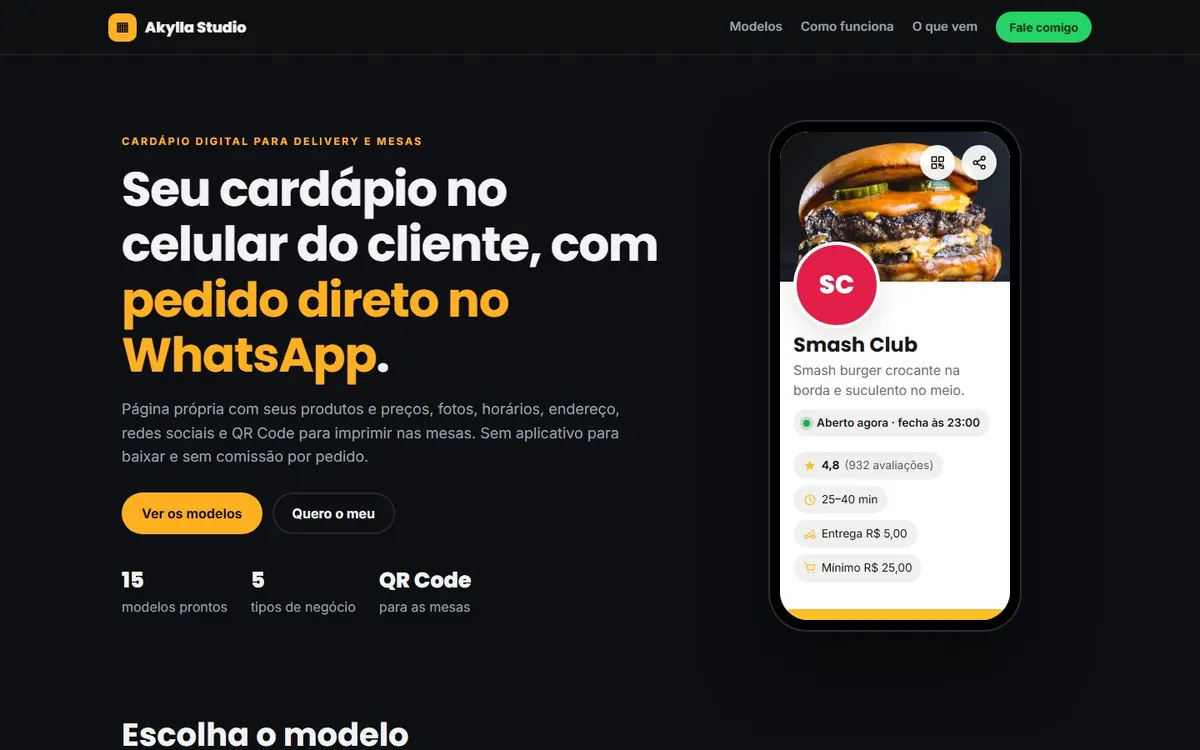
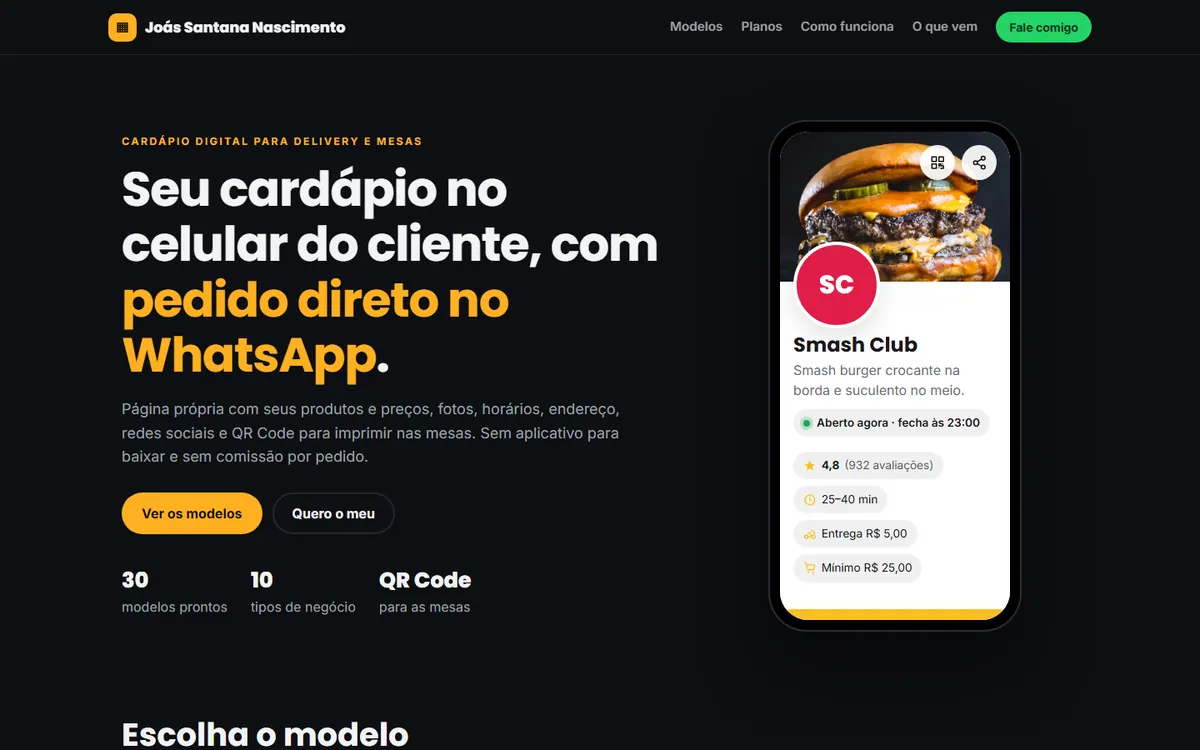
Atualiza o Cardápio Digital: 30 modelos, 10 nichos e novos preços
- Planos Essencial R$ 297 e Completo R$ 497, manutenção R$ 49/mês
- Tabela de preços, janela de detalhes e faixa de números atualizadas
- Cardápio digital como opção de entrada na página de links
- Print novo da vitrine

diff --git a/index.html b/index.html
@@ -27,8 +27,8 @@
   <link rel="preconnect" href="https://fonts.googleapis.com">
   <link rel="preconnect" href="https://fonts.gstatic.com" crossorigin>
   <link href="https://fonts.googleapis.com/css2?family=Inter:wght@400;500;600&family=Space+Grotesk:wght@500;600;700&display=swap" rel="stylesheet">
-  <link rel="stylesheet" href="css/style.css?v=2026102604">
-  <link rel="stylesheet" href="css/solucao.css?v=2026102604">
+  <link rel="stylesheet" href="css/style.css?v=2026102701">
+  <link rel="stylesheet" href="css/solucao.css?v=2026102701">
 
   <!-- Dados para o Google entender que é uma empresa de serviços -->
   <script type="application/ld+json">
@@ -208,7 +208,7 @@
       <div class="container prova__grade">
         <a href="#projetos"><strong>3</strong><span>produtos próprios no ar</span></a>
         <a href="#solucoes"><strong>8</strong><span>soluções prontas para adaptar</span></a>
-        <a href="https://tanattos18.github.io/Cardapio_Digital/" target="_blank" rel="noopener"><strong>15</strong><span>modelos de cardápio digital</span></a>
+        <a href="https://tanattos18.github.io/Cardapio_Digital/" target="_blank" rel="noopener"><strong>30</strong><span>modelos de cardápio digital</span></a>
         <a href="#sobre"><strong>1:1</strong><span>direto com o desenvolvedor</span></a>
       </div>
     </section>
@@ -365,10 +365,10 @@
               <dt>Desafio</dt>
               <dd>Restaurantes e deliveries pagando comissão aos aplicativos ou mandando cardápio em PDF que ninguém consegue ler no celular.</dd>
               <dt>Solução</dt>
-              <dd>Cardápio próprio no celular com pedido completo direto no WhatsApp, QR Code nas mesas e 15 modelos prontos em 3 estilos para escolher.</dd>
+              <dd>Cardápio próprio no celular com pedido completo direto no WhatsApp, QR Code nas mesas e 30 modelos prontos para 10 tipos de negócio, a partir de R$ 297.</dd>
             </dl>
-            <ul class="tags"><li>Pedido pelo WhatsApp</li><li>QR Code</li><li>Delivery e mesa</li><li>15 modelos</li></ul>
-            <p class="projeto__links"><a href="https://tanattos18.github.io/Cardapio_Digital/" target="_blank" rel="noopener" class="link-seta">Ver os 15 modelos</a><a href="#solucao-cardapio-digital" data-abrir="solucao-cardapio-digital" class="link-seta">Detalhes e preço</a></p>
+            <ul class="tags"><li>Pedido pelo WhatsApp</li><li>QR Code</li><li>Delivery e mesa</li><li>30 modelos</li><li>10 nichos</li></ul>
+            <p class="projeto__links"><a href="https://tanattos18.github.io/Cardapio_Digital/" target="_blank" rel="noopener" class="link-seta">Ver os 30 modelos</a><a href="#solucao-cardapio-digital" data-abrir="solucao-cardapio-digital" class="link-seta">Detalhes e preço</a></p>
           </div>
         </article>
 
@@ -398,9 +398,9 @@
               <span class="status-tag status-tag--pronto">Pronto para implantar</span>
             </div>
             <h4>Cardápio Digital</h4>
-            <p>Cardápio no celular do cliente com pedido direto no WhatsApp. 15 modelos prontos.</p>
+            <p>Cardápio no celular do cliente com pedido direto no WhatsApp. 30 modelos prontos, a partir de R$ 297.</p>
             <ul><li>Delivery, retirada e mesa</li><li>QR Code nas mesas</li><li>Sem comissão por pedido</li></ul>
-            <div class="solucao__acoes"><a href="#solucao-cardapio-digital" class="btn" data-abrir="solucao-cardapio-digital">Ver detalhes</a><a href="https://tanattos18.github.io/Cardapio_Digital/" class="link-seta" target="_blank" rel="noopener">Ver os 15 modelos</a></div>
+            <div class="solucao__acoes"><a href="#solucao-cardapio-digital" class="btn" data-abrir="solucao-cardapio-digital">Ver detalhes</a><a href="https://tanattos18.github.io/Cardapio_Digital/" class="link-seta" target="_blank" rel="noopener">Ver os 30 modelos</a></div>
           </article>
         </div>
         <h3 class="solucoes__grupo">Sistemas de gestão</h3>
@@ -634,9 +634,9 @@
               </tr>
               <tr>
                 <td><strong><a href="#solucao-cardapio-digital" data-abrir="solucao-cardapio-digital">Cardápio / catálogo digital</a></strong></td>
-                <td>Lista de produtos com fotos e preços, pedido pelo WhatsApp, link para bio do Instagram</td>
+                <td>30 modelos para escolher, produtos com foto, pedido pelo WhatsApp e QR Code. Essencial até 40 produtos; Completo até 120, com domínio próprio e plaquinhas por mesa</td>
                 <td>5 a 10 dias</td>
-                <td class="tabela__valor">R$ 1.200 a R$ 2.500</td>
+                <td class="tabela__valor">R$ 297 ou R$ 497</td>
               </tr>
               <tr>
                 <td><strong>Site institucional</strong></td>
@@ -854,10 +854,10 @@
             <span class="status-tag status-tag--pronto">Pronto para implantar</span>
           </div>
           <h2 id="titulo-cardapio-digital">Seu cardápio no celular do cliente, com <em>pedido direto no WhatsApp</em></h2>
-          <p class="detalhe__texto">Uma página própria com produtos, fotos, preços, horários e endereço. O cliente monta o pedido, escolhe entrega, retirada ou mesa, e tudo chega organizado no seu WhatsApp. Sem aplicativo para baixar e sem comissão por pedido. São 15 modelos prontos em 3 estilos para escolher.</p>
+          <p class="detalhe__texto">Uma página própria com produtos, fotos, preços, horários e endereço. O cliente monta o pedido, escolhe entrega, retirada ou mesa, e tudo chega organizado no seu WhatsApp. Sem aplicativo para baixar e sem comissão por pedido. São 30 modelos prontos para 10 tipos de negócio, todos com fotos nos produtos.</p>
           <div class="detalhe__acoes">
             <a href="#" class="btn" data-servico="Solução Cardápio Digital (pedidos pelo WhatsApp)"><svg viewBox="0 0 24 24" aria-hidden="true"><path d="M12 3a9 9 0 0 0-7.8 13.5L3 21l4.6-1.2A9 9 0 1 0 12 3z"/></svg> Quero essa solução</a>
-            <a href="https://tanattos18.github.io/Cardapio_Digital/" class="btn btn--fantasma" target="_blank" rel="noopener">Ver os 15 modelos ↗</a>
+            <a href="https://tanattos18.github.io/Cardapio_Digital/" class="btn btn--fantasma" target="_blank" rel="noopener">Ver os 30 modelos ↗</a>
           </div>
         </div>
         <div>
@@ -873,23 +873,23 @@
       <div class="sol-dores"><article class="dor"><span class="dor__x">✕</span><h4>Comissão em cada pedido</h4><p>Aplicativos de delivery ficam com uma parte de cada venda, todo mês.</p></article><article class="dor"><span class="dor__x">✕</span><h4>Cardápio em PDF ou foto</h4><p>Difícil de ler no celular, desatualizado e sem botão para pedir.</p></article><article class="dor"><span class="dor__x">✕</span><h4>Pedido incompleto no WhatsApp</h4><p>Falta endereço, troco ou adicional, e a conversa vai e volta.</p></article></div>
 
       <h3 class="detalhe__titulo">O que vem incluso</h3>
-      <div class="recursos"><article class="recurso"><div class="recurso__icone"><svg viewBox="0 0 24 24" aria-hidden="true"><path d="M12 3a9 9 0 0 0-7.8 13.5L3 21l4.6-1.2A9 9 0 1 0 12 3z"/></svg></div><h4>Pedido pronto no WhatsApp</h4><p>Itens, adicionais, total, entrega, retirada ou mesa, endereço, pagamento e troco numa mensagem só.</p></article><article class="recurso"><div class="recurso__icone"><svg viewBox="0 0 24 24" aria-hidden="true"><rect x="3" y="3" width="7" height="7" rx="1"/><rect x="14" y="3" width="7" height="7" rx="1"/><rect x="3" y="14" width="7" height="7" rx="1"/><path d="M14 14h3v3M21 14v.01M14 21h7v-4"/></svg></div><h4>QR Code nas mesas</h4><p>Plaquinhas para imprimir: o pedido chega com o número da mesa.</p></article><article class="recurso"><div class="recurso__icone"><svg viewBox="0 0 24 24" aria-hidden="true"><path d="M12 2l2.6 6.3L21 9l-5 4.4L17.5 20 12 16.6 6.5 20 8 13.4 3 9l6.4-.7z"/></svg></div><h4>Tamanhos, adicionais e selos</h4><p>Preço promocional, tamanhos (pizza média, grande...), adicionais e selos como Mais pedido e Vegetariano.</p></article><article class="recurso"><div class="recurso__icone"><svg viewBox="0 0 24 24" aria-hidden="true"><circle cx="12" cy="12" r="9"/><path d="M12 7v5l3 2"/></svg></div><h4>Aberto ou fechado na hora</h4><p>Mostra se está aberto pelos horários da semana, inclusive quem fecha de madrugada.</p></article><article class="recurso"><div class="recurso__icone"><svg viewBox="0 0 24 24" aria-hidden="true"><path d="M10 14a4 4 0 0 0 5.7 0l3-3a4 4 0 0 0-5.7-5.7l-1 1M14 10a4 4 0 0 0-5.7 0l-3 3a4 4 0 0 0 5.7 5.7l1-1"/></svg></div><h4>Busca e categorias</h4><p>Busca e menu de categorias fixo no topo para o cliente achar rápido.</p></article><article class="recurso"><div class="recurso__icone"><svg viewBox="0 0 24 24" aria-hidden="true"><path d="M13 2L4 14h7l-1 8 9-12h-7z"/></svg></div><h4>Pronto para divulgar</h4><p>Endereço com mapa, redes sociais, botão de compartilhar e prévia bonita nos links.</p></article></div>
+      <div class="recursos"><article class="recurso"><div class="recurso__icone"><svg viewBox="0 0 24 24" aria-hidden="true"><path d="M12 3a9 9 0 0 0-7.8 13.5L3 21l4.6-1.2A9 9 0 1 0 12 3z"/></svg></div><h4>Pedido pronto no WhatsApp</h4><p>Itens, adicionais, total, entrega, retirada ou mesa, endereço, pagamento e troco numa mensagem só.</p></article><article class="recurso"><div class="recurso__icone"><svg viewBox="0 0 24 24" aria-hidden="true"><rect x="3" y="3" width="7" height="7" rx="1"/><rect x="14" y="3" width="7" height="7" rx="1"/><rect x="3" y="14" width="7" height="7" rx="1"/><path d="M14 14h3v3M21 14v.01M14 21h7v-4"/></svg></div><h4>QR Code nas mesas</h4><p>Plaquinhas para imprimir: o pedido chega com o número da mesa.</p></article><article class="recurso"><div class="recurso__icone"><svg viewBox="0 0 24 24" aria-hidden="true"><rect x="3" y="4" width="18" height="16" rx="2"/><circle cx="9" cy="10" r="2"/><path d="M21 16l-5-5-9 9"/></svg></div><h4>Foto em cada produto</h4><p>Todos os produtos com foto, preço promocional, tamanhos, adicionais e selos como Mais pedido e Vegetariano.</p></article><article class="recurso"><div class="recurso__icone"><svg viewBox="0 0 24 24" aria-hidden="true"><circle cx="12" cy="12" r="9"/><path d="M12 7v5l3 2"/></svg></div><h4>Aberto ou fechado na hora</h4><p>Mostra se está aberto pelos horários da semana, inclusive quem fecha de madrugada.</p></article><article class="recurso"><div class="recurso__icone"><svg viewBox="0 0 24 24" aria-hidden="true"><path d="M10 14a4 4 0 0 0 5.7 0l3-3a4 4 0 0 0-5.7-5.7l-1 1M14 10a4 4 0 0 0-5.7 0l-3 3a4 4 0 0 0 5.7 5.7l1-1"/></svg></div><h4>Busca e categorias</h4><p>Busca e menu de categorias fixo no topo para o cliente achar rápido.</p></article><article class="recurso"><div class="recurso__icone"><svg viewBox="0 0 24 24" aria-hidden="true"><path d="M13 2L4 14h7l-1 8 9-12h-7z"/></svg></div><h4>Pronto para divulgar</h4><p>Endereço com mapa, redes sociais, botão de compartilhar e prévia bonita nos links.</p></article></div>
 
       <h3 class="detalhe__titulo">Para quem é</h3>
-      <div class="para-quem"><span>Hamburguerias</span><span>Pizzarias</span><span>Restaurantes</span><span>Espetinhos</span><span>Pamonharias</span><span>Lanchonetes</span></div>
+      <div class="para-quem"><span>Hamburguerias</span><span>Pizzarias</span><span>Restaurantes</span><span>Espetinhos</span><span>Pamonharias</span><span>Confeitarias</span><span>Açaí e sorvete</span><span>Salgados para festa</span><span>Marmitas fit</span><span>Pastelarias</span></div>
 
       <div class="investimento">
         <div>
           <p class="rotulo">Implantação e investimento</p>
           <h3>Pronto em pouco tempo, com a sua marca</h3>
-          <p>A partir de R$ 1.200, com o seu cardápio cadastrado, as suas cores e as plaquinhas de QR Code. O valor final depende da quantidade de produtos e de fotos.</p>
+          <p>Pagamento único a partir de R$ 297. O preço não depende do modelo: escolha qualquer um dos 30 e o plano conforme o tamanho do seu cardápio.</p>
           <a href="#" class="btn" data-servico="Solução Cardápio Digital (pedidos pelo WhatsApp)"><svg viewBox="0 0 24 24" aria-hidden="true"><path d="M12 3a9 9 0 0 0-7.8 13.5L3 21l4.6-1.2A9 9 0 1 0 12 3z"/></svg> Quero essa solução</a>
         </div>
-        <ul><li>Modelo escolhido com as suas cores</li><li>Cardápio com os seus produtos e preços</li><li>Plaquinhas com QR Code das mesas</li><li>Publicação e link pronto para divulgar</li><li>Proposta por escrito com escopo, prazo e valor</li><li>Pagamento em 2 etapas: 50% para iniciar e 50% na entrega aprovada</li></ul>
+        <ul><li>Essencial (R$ 297): qualquer modelo com as suas cores e logo, até 40 produtos, QR Code do cardápio e 1 rodada de ajustes</li><li>Completo (R$ 497): até 120 produtos, domínio próprio no primeiro ano, plaquinhas de QR Code por mesa e ajuste das fotos</li><li>Manutenção opcional: R$ 49/mês, com até 10 alterações por mês</li><li>Proposta por escrito com escopo, prazo e valor</li><li>Pagamento em 2 etapas: 50% para iniciar e 50% na entrega aprovada</li></ul>
       </div>
 
       <h3 class="detalhe__titulo">Perguntas frequentes</h3>
-      <div class="detalhe__faq"><details><summary>Preciso pagar comissão por pedido?</summary><p>Não. O pedido vai direto para o seu WhatsApp, sem intermediário.</p></details><details><summary>Funciona para mesa e para delivery?</summary><p>Sim. O cliente escolhe entrega, retirada ou consumo na mesa, e o QR Code da mesa já informa o número.</p></details><details><summary>Posso mudar preços depois?</summary><p>Sim. Preços, itens e horários podem ser atualizados sempre que precisar.</p></details></div>
+      <div class="detalhe__faq"><details><summary>Preciso pagar comissão por pedido?</summary><p>Não. O pedido vai direto para o seu WhatsApp, sem intermediário.</p></details><details><summary>Funciona para mesa e para delivery?</summary><p>Sim. O cliente escolhe entrega, retirada ou consumo na mesa, e o QR Code da mesa já informa o número.</p></details><details><summary>Posso mudar preços depois?</summary><p>Sim. Com a manutenção de R$ 49/mês você pede até 10 alterações por mês em preços, produtos e promoções.</p></details></div>
     </dialog>
     <dialog class="detalhe" id="solucao-petflow" aria-labelledby="titulo-petflow">
       <button type="button" class="detalhe__fechar" data-fechar aria-label="Fechar">✕</button>
@@ -1322,7 +1322,7 @@
     <svg viewBox="0 0 24 24"><path d="M12 3a9 9 0 0 0-7.8 13.5L3 21l4.6-1.2A9 9 0 1 0 12 3zm4.6 12.6c-.2.6-1.1 1.1-1.6 1.2-.4 0-.9.1-2.9-.7-2.4-1-4-3.4-4.1-3.6-.1-.2-1-1.3-1-2.5s.6-1.8.9-2c.2-.3.5-.3.6-.3h.5c.2 0 .4 0 .6.4l.8 2c.1.2.1.4 0 .5l-.4.6-.3.3c-.1.1-.3.3-.1.6.2.3.7 1.2 1.6 2 1.1.9 2 1.2 2.3 1.4.3.1.5.1.6-.1l.9-1c.2-.3.4-.2.6-.1l1.9.9c.3.1.4.2.5.3.1.2.1.6-.1 1.1z"/></svg>
   </a>
 
-  <script src="js/config.js?v=2026102604"></script>
-  <script src="js/main.js?v=2026102604"></script>
+  <script src="js/config.js?v=2026102701"></script>
+  <script src="js/main.js?v=2026102701"></script>
 </body>
 </html>

diff --git a/links.html b/links.html
@@ -26,7 +26,7 @@
   <link rel="preconnect" href="https://fonts.googleapis.com">
   <link rel="preconnect" href="https://fonts.gstatic.com" crossorigin>
   <link href="https://fonts.googleapis.com/css2?family=Inter:wght@400;500;600&family=Space+Grotesk:wght@500;600;700&display=swap" rel="stylesheet">
-  <link rel="stylesheet" href="css/style.css?v=2026102604">
+  <link rel="stylesheet" href="css/style.css?v=2026102701">
   <style>
     body { min-height: 100vh; background: #07080c; }
 
@@ -348,9 +348,13 @@
         <svg viewBox="0 0 24 24"><path d="M4 5h16v14H4zM4 10h16M9 10v9"/></svg>
         <b>Quero organizar minha gestão</b><small>Sistema sob medida · <em>sob consulta</em></small>
       </a>
-      <a href="#" class="serv serv--largo entra" style="animation-delay:.54s" data-servico="Automação ou bot">
+      <a href="#" class="serv entra" style="animation-delay:.54s" data-servico="Automação ou bot">
         <svg viewBox="0 0 24 24"><rect x="4" y="8" width="16" height="11" rx="3"/><path d="M12 4v4M9 13v.01M15 13v.01M9 16h6"/></svg>
         <b>Quero automatizar meu atendimento</b><small>Bots de WhatsApp e Telegram · <em>sob consulta</em></small>
+      </a>
+      <a href="https://tanattos18.github.io/Cardapio_Digital/" class="serv entra" style="animation-delay:.56s" target="_blank" rel="noopener">
+        <svg viewBox="0 0 24 24"><rect x="5" y="3" width="14" height="18" rx="2"/><path d="M9 7h6M9 11h6M9 15h4"/></svg>
+        <b>Quero um cardápio digital</b><small>30 modelos prontos · a partir de <em>R$ 297</em></small>
       </a>
     </div>
     <p class="nota-servicos"><a href="./#precos">Ver planos, prazos e o que está incluso →</a></p>
@@ -375,7 +379,7 @@
       <a href="https://tanattos18.github.io/Cardapio_Digital/" class="proj entra" style="animation-delay:.34s" target="_blank" rel="noopener">
         <picture><source type="image/webp" srcset="assets/img/cardapio-digital-640.webp 640w, assets/img/cardapio-digital.webp 1200w" sizes="(max-width: 960px) 100vw, 580px"><img src="assets/img/cardapio-digital.jpg" alt="Vitrine de modelos do Cardápio Digital" width="1440" height="900" loading="lazy"></picture>
         <span class="proj__info">
-          <span><b>Cardápio Digital</b><small>Produto próprio · 15 modelos</small></span>
+          <span><b>Cardápio Digital</b><small>Produto próprio · 30 modelos</small></span>
           <span class="proj__abrir">Ver modelos ↗</span>
         </span>
       </a>
@@ -465,7 +469,7 @@
 
   <div class="toast" id="toast" role="status" aria-live="polite">Link copiado!</div>
 
-  <script src="js/config.js?v=2026102604"></script>
+  <script src="js/config.js?v=2026102701"></script>
   <script>
     document.getElementById("ano").textContent = new Date().getFullYear();
 

diff --git a/404.html b/404.html
@@ -11,7 +11,7 @@
   <link rel="preconnect" href="https://fonts.googleapis.com">
   <link rel="preconnect" href="https://fonts.gstatic.com" crossorigin>
   <link href="https://fonts.googleapis.com/css2?family=Inter:wght@400;500;600&family=Space+Grotesk:wght@500;600;700&display=swap" rel="stylesheet">
-  <link rel="stylesheet" href="/css/style.css?v=2026102604">
+  <link rel="stylesheet" href="/css/style.css?v=2026102701">
   <style>
     .erro { min-height: 100vh; display: grid; place-items: center; text-align: center; padding: 40px 20px; }
     .erro img { width: 88px; margin: 0 auto 24px; }
@@ -33,6 +33,6 @@
       </div>
     </div>
   </main>
-  <script src="/js/config.js?v=2026102604"></script>
+  <script src="/js/config.js?v=2026102701"></script>
 </body>
 </html>

diff --git a/_gerador/solucoes.py b/_gerador/solucoes.py
@@ -60,10 +60,10 @@ SOLUCOES = [
         "status": ("Pronto para implantar", "pronto"),
         "servico": "Solução Cardápio Digital (pedidos pelo WhatsApp)",
         "imagem": "assets/img/cardapio-digital.jpg", "imagem_url": "tanattos18.github.io/Cardapio_Digital",
-        "demo_url": "https://tanattos18.github.io/Cardapio_Digital/", "demo_rotulo": "Ver os 15 modelos",
+        "demo_url": "https://tanattos18.github.io/Cardapio_Digital/", "demo_rotulo": "Ver os 30 modelos",
         "titulo": "Seu cardápio no celular do cliente, com <em>pedido direto no WhatsApp</em>",
-        "descricao": "Uma página própria com produtos, fotos, preços, horários e endereço. O cliente monta o pedido, escolhe entrega, retirada ou mesa, e tudo chega organizado no seu WhatsApp. Sem aplicativo para baixar e sem comissão por pedido. São 15 modelos prontos em 3 estilos para escolher.",
-        "seo": "Cardápio digital com pedido pelo WhatsApp e QR Code na mesa para hamburguerias, pizzarias, restaurantes, espetinhos e pamonharias.",
+        "descricao": "Uma página própria com produtos, fotos, preços, horários e endereço. O cliente monta o pedido, escolhe entrega, retirada ou mesa, e tudo chega organizado no seu WhatsApp. Sem aplicativo para baixar e sem comissão por pedido. São 30 modelos prontos para 10 tipos de negócio, todos com fotos nos produtos.",
+        "seo": "Cardápio digital com pedido pelo WhatsApp e QR Code na mesa para hamburguerias, pizzarias, restaurantes, espetinhos, pamonharias, confeitarias, açaí, salgados para festa, marmitas fit e pastelarias. A partir de R$ 297.",
         "menu": [], "kpis": [], "lista": [],
         "dores": [
             ("Comissão em cada pedido", "Aplicativos de delivery ficam com uma parte de cada venda, todo mês."),
@@ -73,18 +73,18 @@ SOLUCOES = [
         "recursos": [
             ("whats", "Pedido pronto no WhatsApp", "Itens, adicionais, total, entrega, retirada ou mesa, endereço, pagamento e troco numa mensagem só."),
             ("qr", "QR Code nas mesas", "Plaquinhas para imprimir: o pedido chega com o número da mesa."),
-            ("estrela", "Tamanhos, adicionais e selos", "Preço promocional, tamanhos (pizza média, grande...), adicionais e selos como Mais pedido e Vegetariano."),
+            ("imagem", "Foto em cada produto", "Todos os produtos com foto, preço promocional, tamanhos, adicionais e selos como Mais pedido e Vegetariano."),
             ("relogio", "Aberto ou fechado na hora", "Mostra se está aberto pelos horários da semana, inclusive quem fecha de madrugada."),
             ("link", "Busca e categorias", "Busca e menu de categorias fixo no topo para o cliente achar rápido."),
             ("raio", "Pronto para divulgar", "Endereço com mapa, redes sociais, botão de compartilhar e prévia bonita nos links."),
         ],
-        "para_quem": ["Hamburguerias", "Pizzarias", "Restaurantes", "Espetinhos", "Pamonharias", "Lanchonetes"],
-        "inclui": ["Modelo escolhido com as suas cores", "Cardápio com os seus produtos e preços", "Plaquinhas com QR Code das mesas", "Publicação e link pronto para divulgar"],
-        "investimento": "A partir de R$ 1.200, com o seu cardápio cadastrado, as suas cores e as plaquinhas de QR Code. O valor final depende da quantidade de produtos e de fotos.",
+        "para_quem": ["Hamburguerias", "Pizzarias", "Restaurantes", "Espetinhos", "Pamonharias", "Confeitarias", "Açaí e sorvete", "Salgados para festa", "Marmitas fit", "Pastelarias"],
+        "inclui": ["Essencial (R$ 297): qualquer modelo com as suas cores e logo, até 40 produtos, QR Code do cardápio e 1 rodada de ajustes", "Completo (R$ 497): até 120 produtos, domínio próprio no primeiro ano, plaquinhas de QR Code por mesa e ajuste das fotos", "Manutenção opcional: R$ 49/mês, com até 10 alterações por mês"],
+        "investimento": "Pagamento único a partir de R$ 297. O preço não depende do modelo: escolha qualquer um dos 30 e o plano conforme o tamanho do seu cardápio.",
         "faq": [
             ("Preciso pagar comissão por pedido?", "Não. O pedido vai direto para o seu WhatsApp, sem intermediário."),
             ("Funciona para mesa e para delivery?", "Sim. O cliente escolhe entrega, retirada ou consumo na mesa, e o QR Code da mesa já informa o número."),
-            ("Posso mudar preços depois?", "Sim. Preços, itens e horários podem ser atualizados sempre que precisar."),
+            ("Posso mudar preços depois?", "Sim. Com a manutenção de R$ 49/mês você pede até 10 alterações por mês em preços, produtos e promoções."),
         ],
     },
     {

diff --git a/README.md b/README.md
@@ -22,7 +22,7 @@ Atendimento direto com o desenvolvedor · Goiânia/GO e todo o Brasil
 | Serviço | Para quem | A partir de |
 |---|---|---|
 | **Página de vendas** | Anúncios, lançamentos, infoprodutos | R$ 900 |
-| **Cardápio / catálogo digital** | Restaurantes, lojas, pedidos pelo WhatsApp | R$ 1.200 |
+| **[Cardápio digital](https://tanattos18.github.io/Cardapio_Digital/)** | Restaurantes, lanchonetes e delivery: 30 modelos, pedido pelo WhatsApp | R$ 297 |
 | **Site institucional** | Clínicas, escritórios, prestadores de serviço | R$ 1.800 |
 | **Loja virtual** | Lojas que querem vender online com loja própria | R$ 4.500 |
 | **Sistema sob medida** | Negócios que cresceram e se perderam nas planilhas | sob consulta |
@@ -48,7 +48,7 @@ Valores e o que está incluso em cada um: [akyllastudio.github.io/#precos](https
   </tr>
 </table>
 
-**[Cardápio Digital](https://tanattos18.github.io/Cardapio_Digital/)**: vitrine no ar com 15 modelos de cardápio digital para hamburguerias, pizzarias, restaurantes, espetinhos e pamonharias. Pedido pelo WhatsApp e QR Code nas mesas.
+**[Cardápio Digital](https://tanattos18.github.io/Cardapio_Digital/)**: vitrine no ar com 30 modelos de cardápio digital para hamburguerias, pizzarias, restaurantes, espetinhos, pamonharias, confeitarias, açaí, salgados para festa, marmitas fit e pastelarias. Planos a partir de R$ 297. Pedido pelo WhatsApp e QR Code nas mesas.
 
 ## Soluções prontas para adaptar
 
@@ -56,7 +56,7 @@ Produtos próprios que eu já desenvolvi e configuro com a marca e o jeito de tr
 
 | Solução | O que faz | Situação |
 |---|---|---|
-| **[Cardápio Digital](https://akyllastudio.github.io/#solucao-cardapio-digital)** | Cardápio no celular com pedido pelo WhatsApp e QR Code nas mesas. [Ver os 15 modelos](https://tanattos18.github.io/Cardapio_Digital/) | Pronto para implantar |
+| **[Cardápio Digital](https://akyllastudio.github.io/#solucao-cardapio-digital)** | Cardápio no celular com pedido pelo WhatsApp e QR Code nas mesas. [Ver os 30 modelos](https://tanattos18.github.io/Cardapio_Digital/) | Pronto para implantar |
 | **[PetFlow](https://akyllastudio.github.io/#solucao-petflow)** | Gestão para pet shops: clientes, animais, agenda, PDV, estoque e assinaturas | Pronto para implantar |
 | **[SaaS Restaurante](https://akyllastudio.github.io/#solucao-restaurante)** | Pedidos pelo WhatsApp, cardápio por QR Code e tela de cozinha | Pronto para implantar |
 | **[Painel Digital](https://akyllastudio.github.io/#solucao-painel-digital)** | Atendimento, filas de espera e painéis de chamada em tempo real | Base adaptável |
